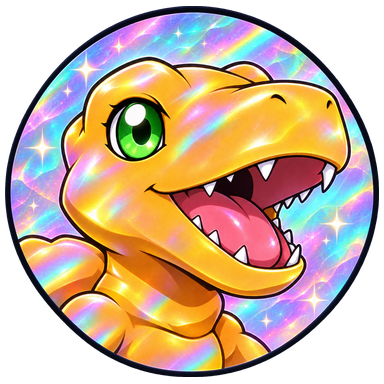
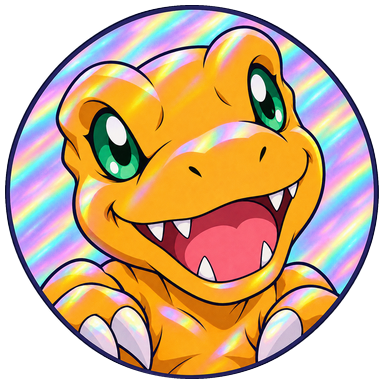
Redibuja los retratos holográficos de Agumon y Patamon

diff --git a/index.html b/index.html
@@ -15070,7 +15070,7 @@ const PLAYER_ICONS = [
   {id:'leomon', name:'Leomon'}, {id:'hagurumon', name:'Hagurumon'}, {id:'frigimon', name:'Frigimon'}, {id:'wizardmon', name:'Wizardmon'}
 ].map(x => ({...x, src: playerIconSrc(x.id)}));
 // Iconos de skin: se desbloquean al tener la skin en alguna etapa (los de skins ocultas solo se ven al tenerlas)
-const SKIN_ICON_ART = {galactico:'galaxia', holografica:'prisma', lcd:'lcd-v2', variocolor:'variocolor-v2', reno:'astas-integradas', festival:'navidad-gabumon'};
+const SKIN_ICON_ART = {galactico:'galaxia', holografica:'prisma-v2', lcd:'lcd-v2', variocolor:'variocolor-v2', reno:'astas-integradas', festival:'navidad-gabumon'};
 const SKIN_ICONS = [
   ...SEASONS.adventure.chars.map(key => ({key, skin:'holografica'})),
   {key:'biyomon', skin:'festival'},
